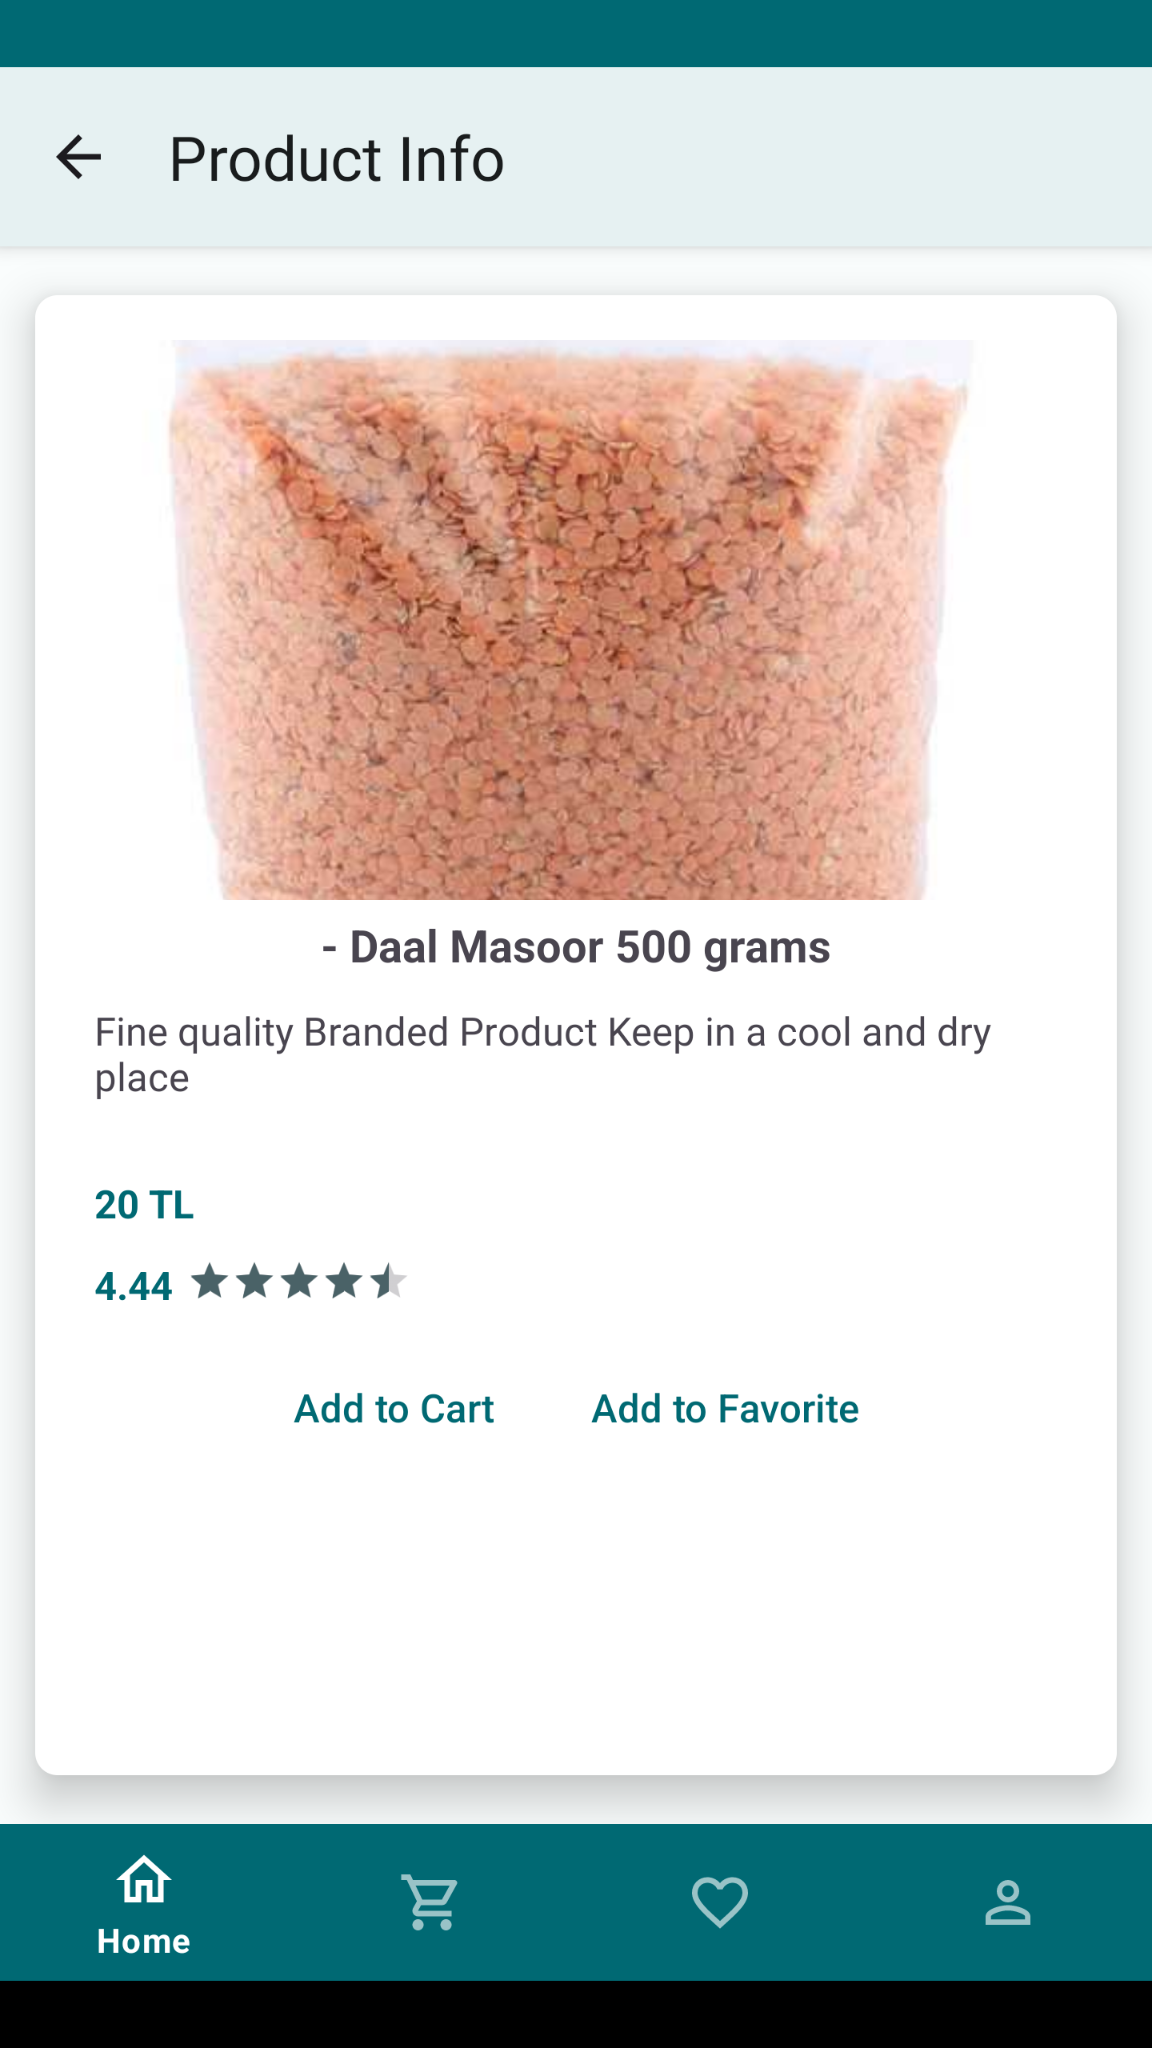
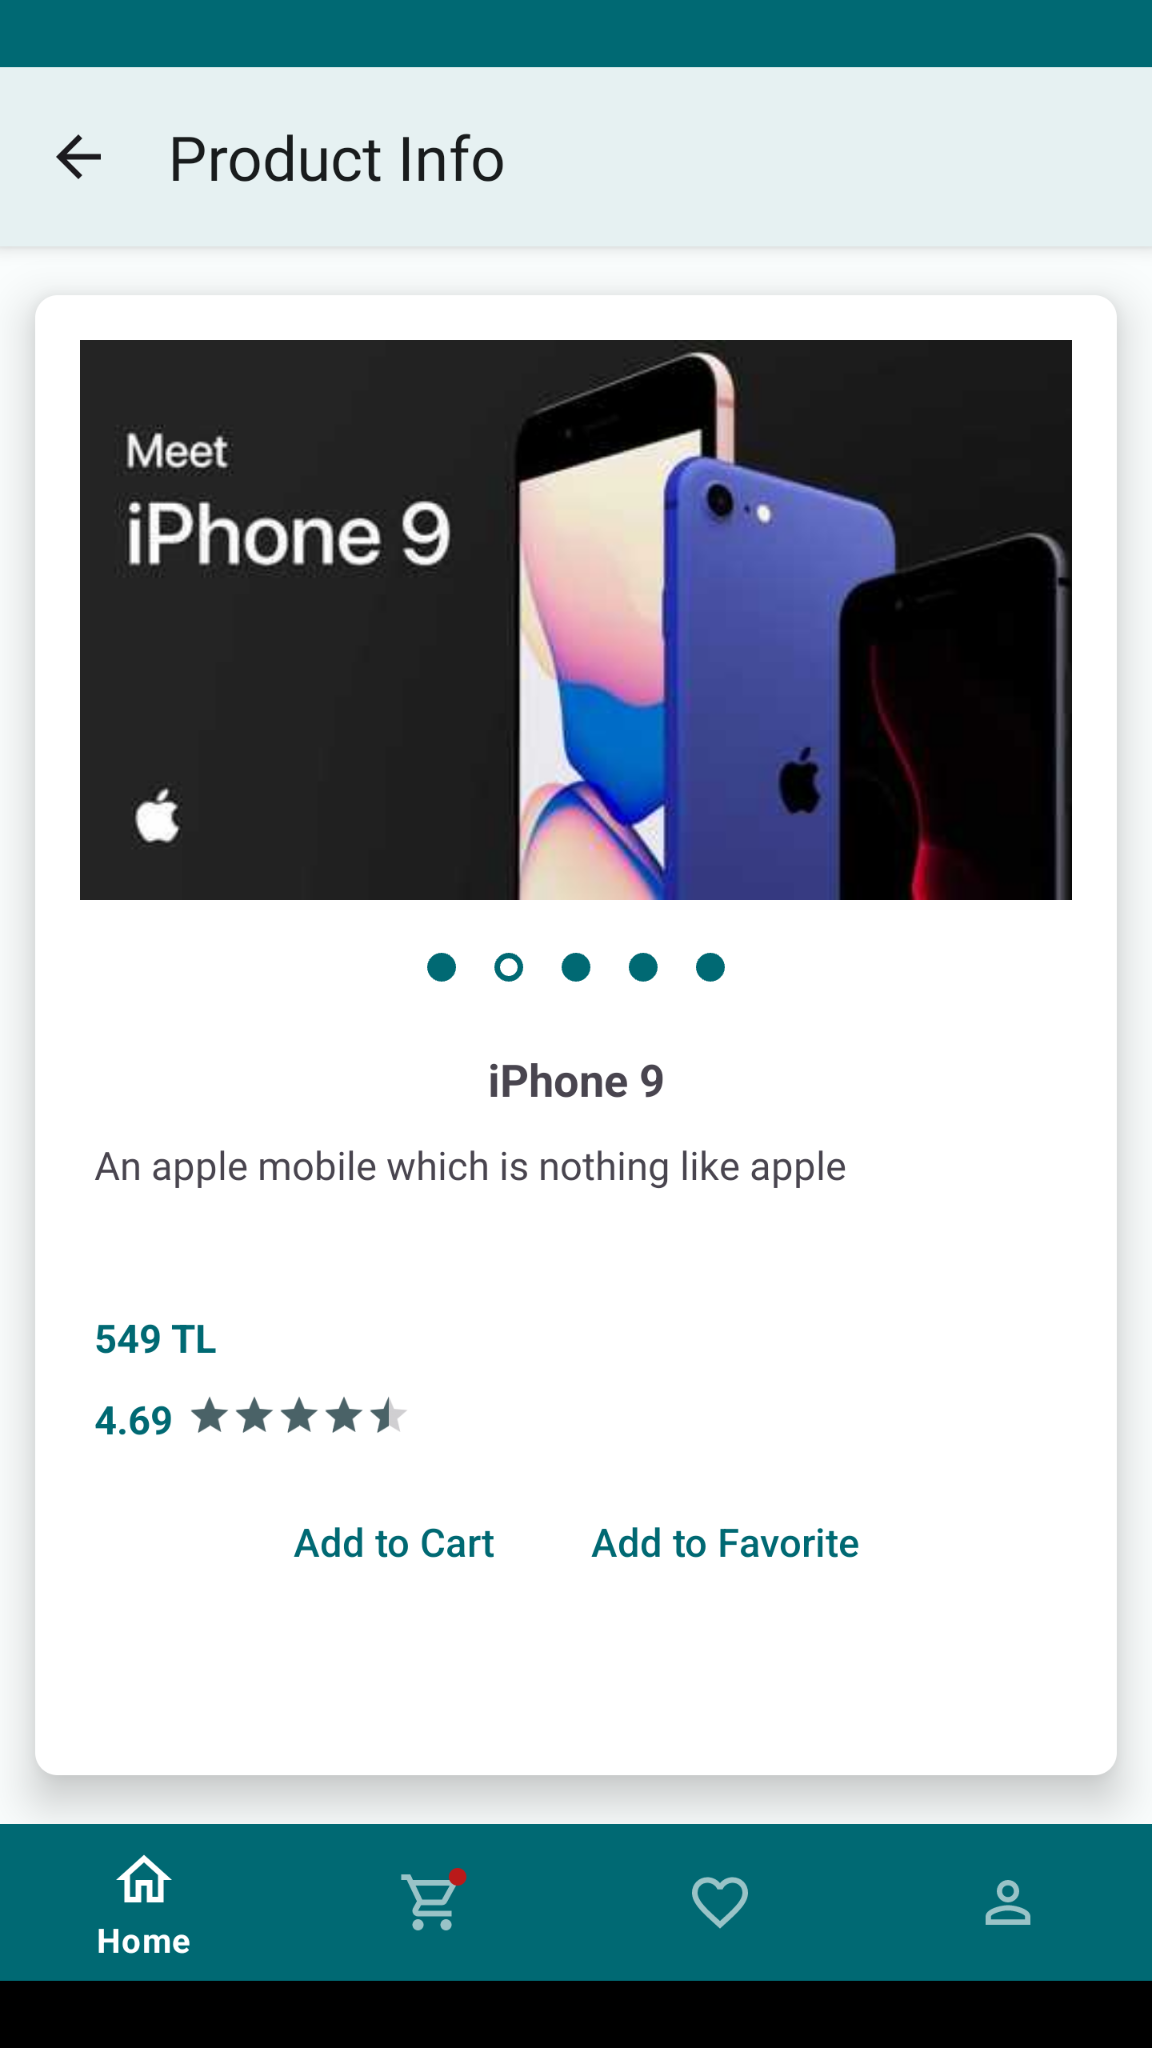
detail screen image indicator implemented

diff --git a/app/src/main/java/com/mustafaunlu/ecommerce/ui/detail/DetailFragment.kt b/app/src/main/java/com/mustafaunlu/ecommerce/ui/detail/DetailFragment.kt
@@ -9,6 +9,7 @@ import android.view.ViewGroup
 import androidx.fragment.app.Fragment
 import androidx.fragment.app.viewModels
 import androidx.navigation.fragment.navArgs
+import com.google.android.material.tabs.TabLayoutMediator
 import com.mustafaunlu.ecommerce.R
 import com.mustafaunlu.ecommerce.common.ScreenState
 import com.mustafaunlu.ecommerce.databinding.FragmentDetailBinding
@@ -53,6 +54,8 @@ class DetailFragment : Fragment() {
         binding.btnAddToFav.setOnClickListener {
             addToFavorite()
         }
+
+
     }
 
     private fun setupProductDetail() {
@@ -67,12 +70,17 @@ class DetailFragment : Fragment() {
                     binding.detailProgressBar.gone()
                     val product = productState.uiData
                     bindProductDetailToView(product)
-                    binding.viewPager?.adapter = DetailImageViewPagerAdapter(product.imageUrl)
+                    viewPagerSetup(product)
                 }
 
                 ScreenState.Loading -> binding.detailProgressBar.visible()
             }
         }
+    }
+
+    private fun viewPagerSetup(product: DetailProductUiData) {
+        binding.viewPager.adapter = DetailImageViewPagerAdapter(product.imageUrl)
+        TabLayoutMediator(binding.tabLayout, binding.viewPager) { _, _ -> }.attach()
     }
 
     @SuppressLint("SetTextI18n")
@@ -81,8 +89,8 @@ class DetailFragment : Fragment() {
             detailProductTitle.text = product.title
             detailProductPrice.text = "${product.price} TL"
             detailProductDescription.text = product.description
-            detailProductRatingTxt?.text = product.rating
-            detailProductRating?.rating = product.rating.toFloat()
+            detailProductRatingTxt.text = product.rating
+            detailProductRating.rating = product.rating.toFloat()
 
             val userId = getUserIdFromSharedPref(sharedPref)
             userCart = UserCartEntity(
